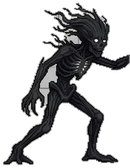
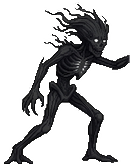
Clean the grey from the hero's jump and attack frames
Remove the grey patches between arms and body, the grey outline edge,
pale bits in the hair and a speck under the jump, keeping both eyes and
the rib glow. Version-tag the three images so browsers load the new ones.

diff --git a/index.html b/index.html
@@ -1121,9 +1121,9 @@
       walk4:   "assets/player_walk4.png?v=2",
       walk6:   "assets/player_walk6.png?v=2",
       idle:    "assets/player_idle.png?v=2",   // standing pose from main_sprite.png
-      jump:    "assets/player_jump.png",
-      attack0: "assets/player_attack0.png",
-      attack4: "assets/player_attack4.png",
+      jump:    "assets/player_jump.png?v=2",
+      attack0: "assets/player_attack0.png?v=2",
+      attack4: "assets/player_attack4.png?v=2",
       hurt:    "assets/player_hurt.png",
       death:   "assets/player_death.png"
     };
